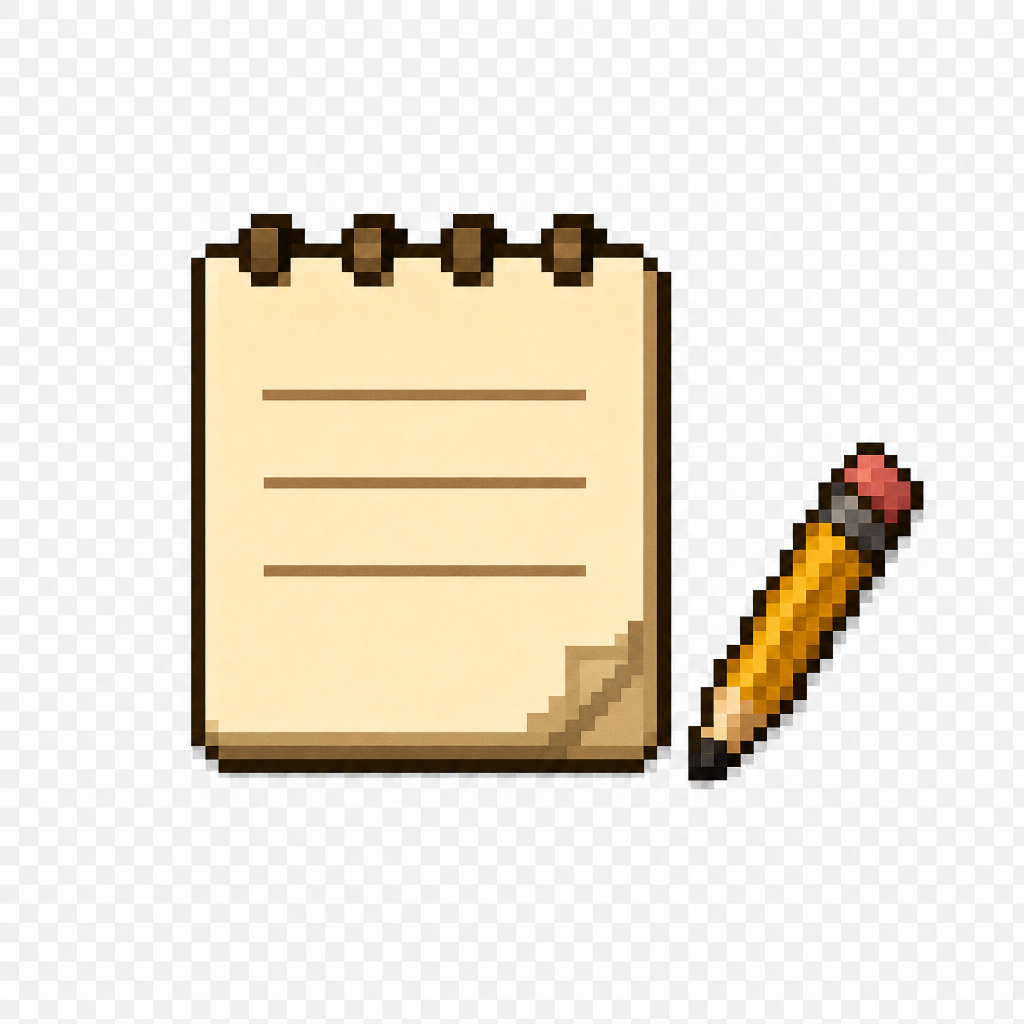
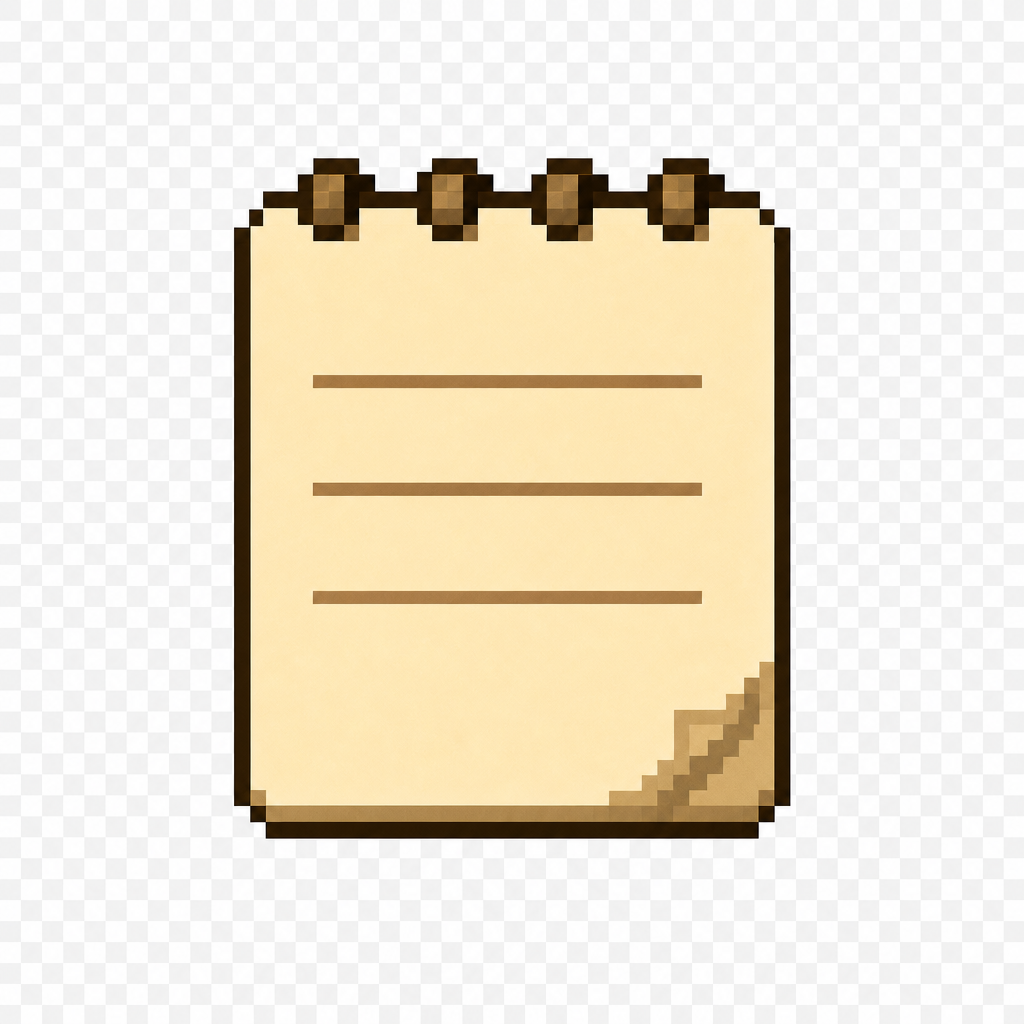
assets(desk): memo paper only (no pencil); add lamp sprite
Memo is a single tappable notepad for 10-char entry. Lamp sets warm
amber light tone for remaining desk props.

Changed region(s): [[0.1875, 0.1562, 0.9062, 0.8438]]

diff --git a/docs/your-diary/27-desk-scene-layered-sprites.md b/docs/your-diary/27-desk-scene-layered-sprites.md
@@ -129,7 +129,7 @@ Z-order (아래→위):
 | `corkboard` | `corkboard.png` | **오돌토돌 코르크**+두꺼운 보드감 · **사진 슬롯 알파 관통(3)** · 유리와 대비 | 1 |
 | `cork_empty` | `cork_empty_slot.png` | 빈 폴라로이드 플레이스홀더 | 1 |
 | `tomato` | `tomato_timer.png` | 토마토 뽀모도로 **대기(idle) 1장만** | 1 |
-| `memo` | `memo_note.png` | 짧은 줄만 있는 메모 (10자 입구) | 1 |
+| `memo` | `memo_note.png` | 짧은 줄만 있는 **메모지 단독** (연필 없음 · 탭=10자 입구) | 1 |
 | `frame` | `photo_frame.png` | 작은 액자 (안의 그림은 최소·교체 가능 슬롯이면 더 좋음) | 1 |
 | `lamp` | `lamp.png` | 램프 본체 | 1 |
 | `lamp_glow` | `lamp_glow.png` | 부드러운 원뿔 광 (또는 코드로 View opacity) | 1 |
